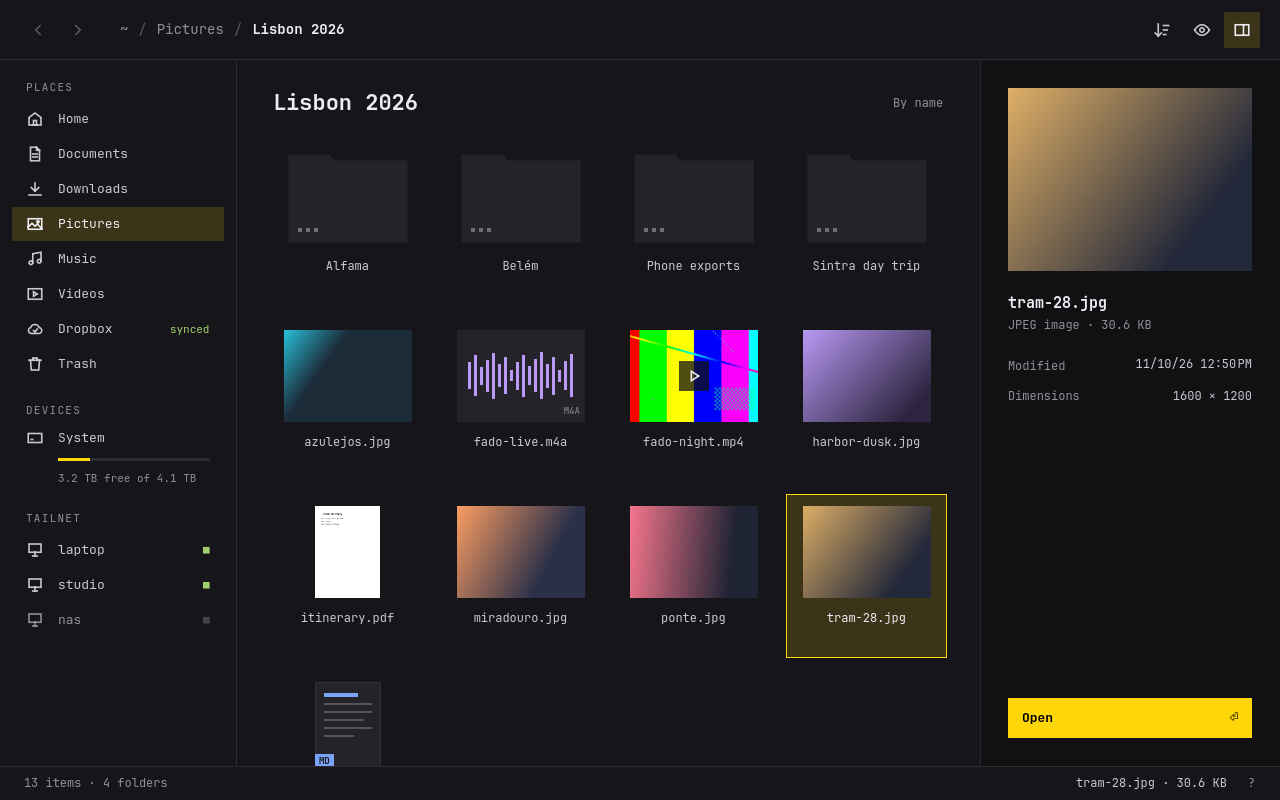
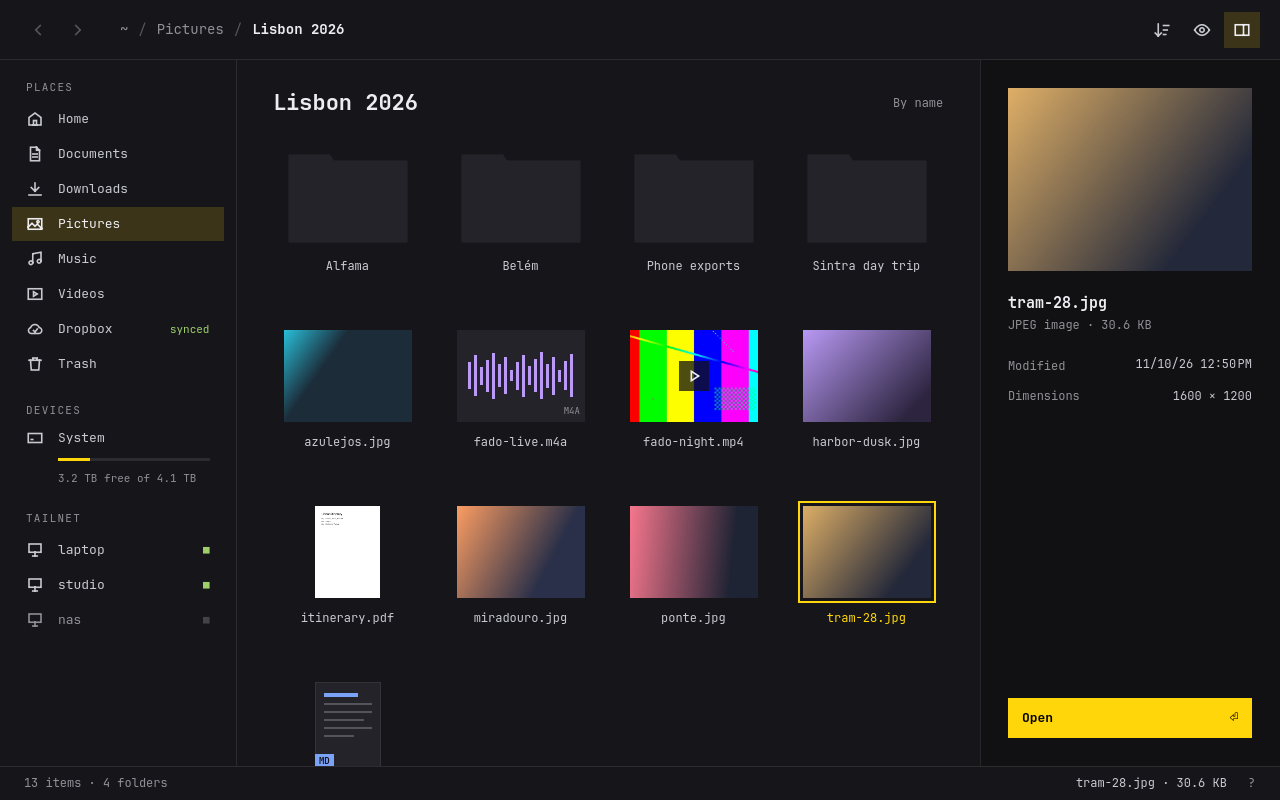
Show selection as color on the item, drop the folder dots

Changed region(s): [[0.5938, 0.5938, 0.75, 0.8438]]

diff --git a/src/FileTile.qml b/src/FileTile.qml
@@ -2,7 +2,7 @@ import QtQuick
 import QtQuick.Shapes
 
 // One item in the grid: a preview on top, its name below. Folders are a
-// quiet card with a dot per item inside; files show a real thumbnail when one
+// quiet card; files show a real thumbnail when one
 // can be made, and a drawn stand-in for their kind when not.
 Item {
     id: tile
@@ -37,17 +37,6 @@ Item {
                                      : kind === "image" ? theme.cyan
                                      : theme.secondaryForeground
 
-    Rectangle {
-        anchors.fill: parent
-        anchors.margins: 6
-        radius: Math.min(4, theme.radius)
-        color: tile.current ? tile.tint(theme.accent, 0.16)
-             : hover.hovered ? tile.tint(theme.foreground, 0.05)
-             : "transparent"
-        border.width: tile.current ? 1 : 0
-        border.color: theme.accent
-    }
-
     Item {
         id: art
         width: 128
@@ -60,6 +49,18 @@ Item {
             anchors.fill: parent
             sourceComponent: tile.isDir ? folderArt : fileArt
         }
+
+        // Selection is color on the item itself, not a frame around the
+        // tile: folders tint their own card, files get an accent outline.
+        Rectangle {
+            visible: !tile.isDir && (tile.current || hover.hovered)
+            anchors.fill: parent
+            anchors.margins: -5
+            color: "transparent"
+            border.width: tile.current ? 2 : 1
+            border.color: tile.current ? theme.accent : tile.tint(theme.foreground, 0.2)
+            radius: Math.min(4, theme.radius)
+        }
     }
 
     Text {
@@ -68,7 +69,7 @@ Item {
         anchors.horizontalCenter: parent.horizontalCenter
         width: parent.width - 28
         text: tile.name
-        color: tile.current ? theme.brightForeground : theme.foreground
+        color: tile.current ? theme.accent : theme.foreground
         font.pixelSize: 12
         horizontalAlignment: Text.AlignHCenter
         wrapMode: Text.WrapAtWordBoundaryOrAnywhere
@@ -103,33 +104,16 @@ Item {
         }
     }
 
-    // Folders are a plain card with a dot for each thing inside, up to eight,
-    // so full and empty folders read differently without a number or a
-    // picture competing with the files around them.
+    // Folders are a plain card, nothing on it; the name below says the rest.
     Component {
         id: folderArt
 
-        Item {
-            FolderShape {
-                fill: tile.current ? Qt.tint(theme.lighterBackground, tile.tint(theme.accent, 0.22)) : theme.lighterBackground
-                stroke: tile.current ? theme.accent : "transparent"
-            }
-            Row {
-                x: 14
-                y: 74
-                spacing: 4
-                Repeater {
-                    model: Math.max(0, Math.min(8, tile.itemCount))
-                    Rectangle { width: 4; height: 4; color: tile.tint(theme.foreground, 0.45) }
-                }
-                Text {
-                    visible: tile.itemCount > 8
-                    anchors.verticalCenter: parent.verticalCenter
-                    text: "+"
-                    color: tile.tint(theme.foreground, 0.45)
-                    font.pixelSize: 9
-                }
-            }
+        FolderShape {
+            fill: tile.current ? Qt.tint(theme.lighterBackground, tile.tint(theme.accent, 0.3))
+                : hover.hovered ? Qt.tint(theme.lighterBackground, tile.tint(theme.foreground, 0.06))
+                : theme.lighterBackground
+            stroke: tile.current ? theme.accent : "transparent"
+            strokeWidth: 1.5
         }
     }
 

diff --git a/README.md b/README.md
@@ -7,7 +7,7 @@ Folio is Omarchy's file manager: one window for finding, previewing and opening 
 - **Places**: Home and your standard folders, with Dropbox listed (and its sync status shown) once it's set up.
 - **Devices**: the system drive and anything plugged in, with free space.
 - **Tailnet**: the machines on your tailnet. Opening one mounts it over SFTP through GVfs and lands in the matching home folder.
-- **Previews**: folders are quiet cards with a dot for each thing inside; photos, videos, PDFs and anything else with an installed thumbnailer show the real thing. Space opens a large preview, like Sushi or Quick Look: pictures at full size, video and audio playing, PDFs to scroll through, text and Markdown to read, with the arrows stepping through the folder. The details pane (Ctrl+I) shows a larger look, the facts, and the first lines of text files.
+- **Previews**: folders are quiet cards; photos, videos, PDFs and anything else with an installed thumbnailer show the real thing. Space opens a large preview, like Sushi or Quick Look: pictures at full size, video and audio playing, PDFs to scroll through, text and Markdown to read, with the arrows stepping through the folder. The details pane (Ctrl+I) shows a larger look, the facts, and the first lines of text files.
 - **Show in folder**: Folio answers `org.freedesktop.FileManager1`, so other apps' "Show in folder" buttons open it with the file selected.
 
 ## Keyboard

diff --git a/plans/folio.md b/plans/folio.md
@@ -22,7 +22,7 @@ Folio replaces it with an app built the way Hype, Monologue, Omacut and Signed a
 Done, tested (19 Qt Test cases), and verified offscreen:
 
 - Folder model listing off the UI thread, folders first, natural sort, name or newest-first, hidden files toggle, live reload on change.
-- Folder tiles as plain cards with a dot per item inside (up to eight); file tiles with real thumbnails (in-process for common images, installed thumbnailers for video, PDF, HEIC, office files), drawn stand-ins otherwise.
+- Folder tiles as plain cards, selection shown as color on the item itself; file tiles with real thumbnails (in-process for common images, installed thumbnailers for video, PDF, HEIC, office files), drawn stand-ins otherwise.
 - Shared thumbnail cache per the spec, with failure markers so broken files aren't retried.
 - Preview pane: large preview, the system's type name, size, modified, dimensions, opening lines of text files, Open.
 - Sidebar: XDG places, Dropbox when `~/Dropbox` exists (with `dropbox-cli` sync status), Trash, system and removable drives with free space, tailnet machines from `tailscale status --json`.
